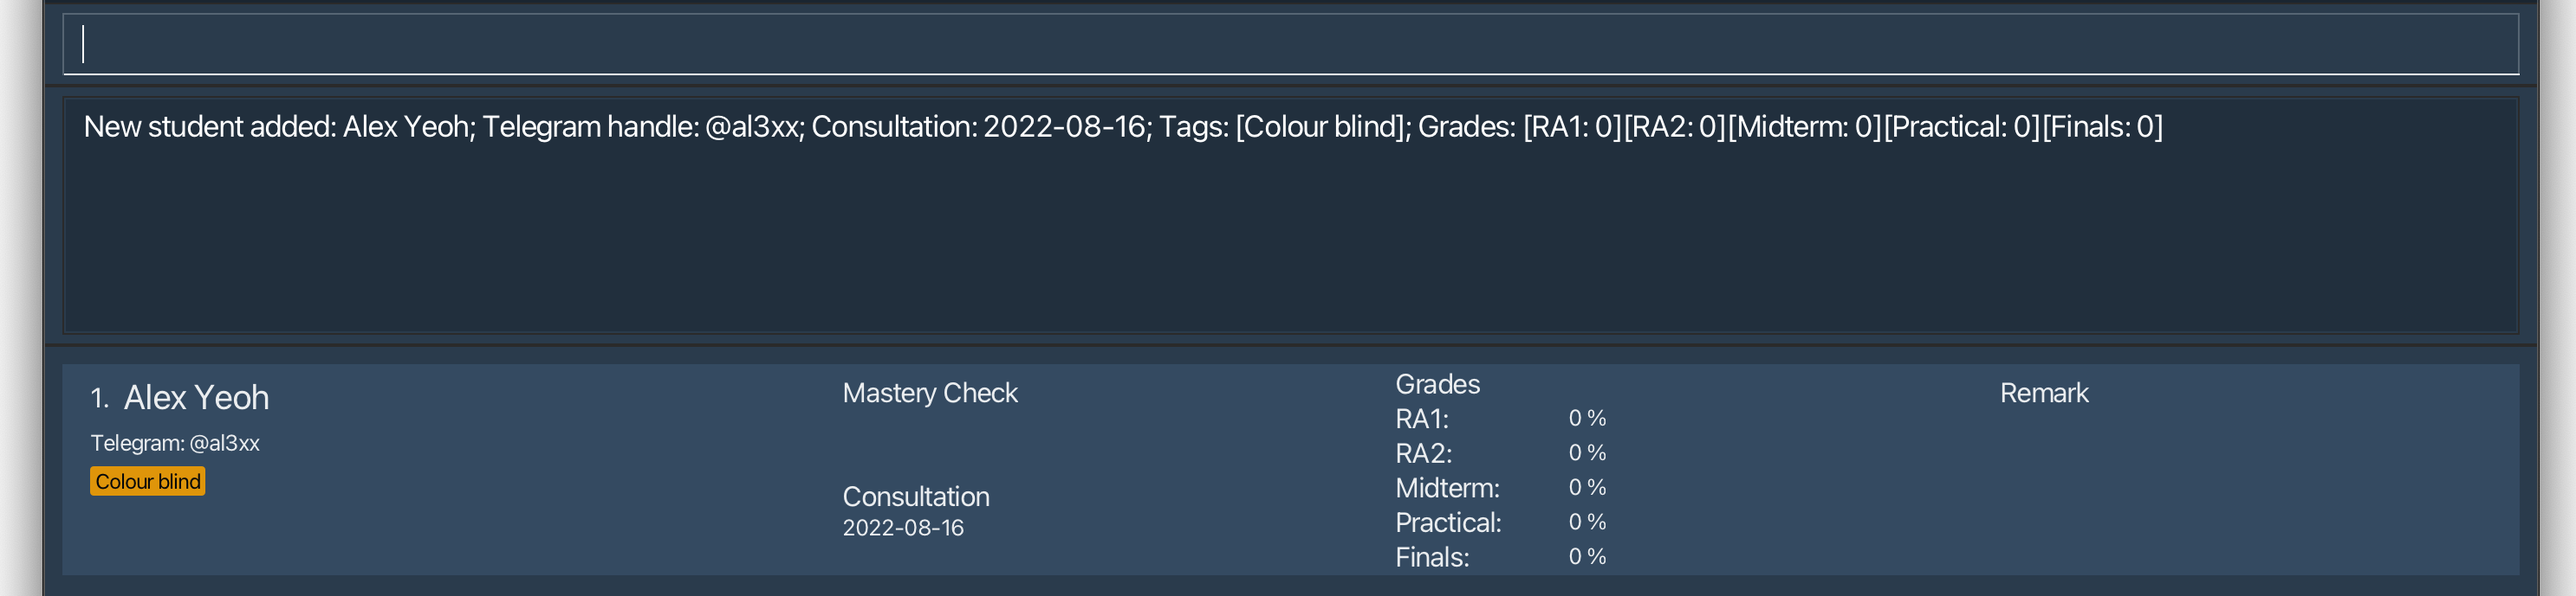
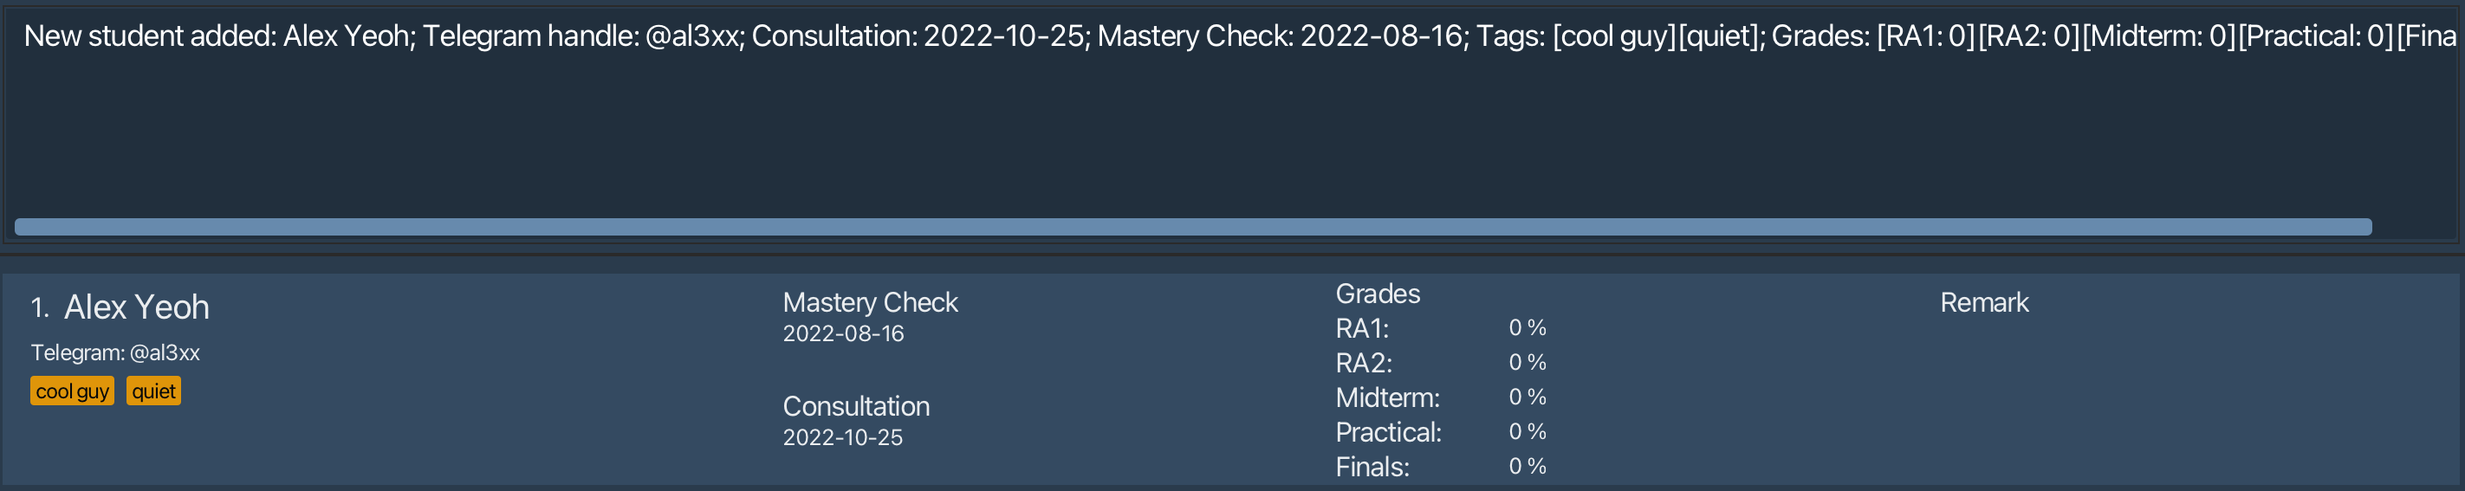
Improve code quality and update User Guide
Refactor Address Book to Friday

Add test cases for TelegramHandle, MasteryCheck and Consultation

Improve error messages for add and sort commands

Remove undo/redo feature from Developer Guide

diff --git a/src/main/java/friday/logic/parser/SortCommandParser.java b/src/main/java/friday/logic/parser/SortCommandParser.java
@@ -37,10 +37,12 @@ public class SortCommandParser implements Parser<SortCommand> {
                 ArgumentTokenizer.tokenize(args, PREFIX_NAME, PREFIX_TELEGRAMHANDLE, PREFIX_CONSULTATION,
                         PREFIX_MASTERYCHECK, PREFIX_RA1, PREFIX_RA2, PREFIX_MIDTERM, PREFIX_PRACTICAL, PREFIX_FINALS);
 
+        // no valid tokens in the command
         if (argMultimap.size() < 1) {
             throw new ParseException(String.format(MESSAGE_INVALID_COMMAND_FORMAT, SortCommand.MESSAGE_USAGE));
         }
 
+        // too many tokens
         if (argMultimap.size() > 1) {
             throw new ParseException(String.format(MESSAGE_INVALID_COMMAND_FORMAT,
                     SortCommand.MESSAGE_TOO_MANY_CRITERIA));
@@ -54,24 +56,27 @@ public class SortCommandParser implements Parser<SortCommand> {
 
         Prefix prefix = argMultimap.getFirstPrefix().orElse(null);
 
-        // Since parse asserts that there will be one valid prefix in the argMultimap, prefix object should not be null
+        // Since parse asserts that there will be one and only one valid prefix in the argMultimap, prefix object
+        // should not be null
         assert !isNull(prefix);
 
         Comparator<Student> comparator = getComparator(argMultimap, prefix);
 
+        // comparator should never be null as the valid prefix will always have a value
         assert !isNull(comparator);
 
         return new SortCommand(comparator);
     }
 
     private Comparator<Student> getComparator(ArgumentMultimap argMultimap, Prefix prefix) throws ParseException {
-        if (argMultimap.getValue(prefix).isPresent()) {
-            Order order = ParserUtil.parseOrder(argMultimap.getValue(prefix).get());
-            return (student1, student2) -> order.equals(ORDER_ASCENDING)
-                    ? compare(prefix, student1, student2)
-                    : compare(prefix, student2, student1);
+        if (argMultimap.getValue(prefix).isEmpty()) {
+            return null;
         }
-        return null;
+
+        Order order = ParserUtil.parseOrder(argMultimap.getValue(prefix).get());
+        return (student1, student2) -> order.equals(ORDER_ASCENDING)
+                ? compare(prefix, student1, student2)
+                : compare(prefix, student2, student1);
     }
 
     private int compare(Prefix prefix, Student student1, Student student2) {
@@ -101,6 +106,9 @@ public class SortCommandParser implements Parser<SortCommand> {
         } else if (prefix.equals(PREFIX_FINALS)) {
             exam = "Finals";
         }
+
+        assert !exam.equals("");
+
         return Double.compare(
                 Double.parseDouble(student1.getGradesList().getGrade(exam).getScore()),
                 Double.parseDouble(student2.getGradesList().getGrade(exam).getScore()));

diff --git a/src/main/java/friday/storage/JsonAdaptedStudent.java b/src/main/java/friday/storage/JsonAdaptedStudent.java
@@ -1,6 +1,9 @@
 package friday.storage;
 
 import static friday.model.grades.GradesList.EXAMS_COUNT;
+import static friday.model.student.Consultation.EMPTY_CONSULTATION;
+import static friday.model.student.MasteryCheck.EMPTY_MASTERYCHECK;
+import static friday.model.student.TelegramHandle.EMPTY_TELEGRAMHANDLE;
 
 import java.time.LocalDate;
 import java.util.ArrayList;
@@ -108,9 +111,10 @@ class JsonAdaptedStudent {
         if (!TelegramHandle.isValidOrEmptyJson(telegramHandle)) {
             throw new IllegalValueException(TelegramHandle.MESSAGE_CONSTRAINTS);
         }
+
         final TelegramHandle modelTelegramHandle;
-        if (telegramHandle.equals("")) {
-            modelTelegramHandle = TelegramHandle.EMPTY_TELEGRAMHANDLE;
+        if (telegramHandle.equals(EMPTY_TELEGRAMHANDLE.value)) {
+            modelTelegramHandle = EMPTY_TELEGRAMHANDLE;
         } else {
             modelTelegramHandle = new TelegramHandle(telegramHandle);
         }
@@ -122,9 +126,10 @@ class JsonAdaptedStudent {
         if (!Consultation.isValidOrEmptyJson(consultation.toString())) {
             throw new IllegalValueException(Consultation.MESSAGE_CONSTRAINTS);
         }
+
         final Consultation modelConsultation;
-        if (consultation.equals(LocalDate.of(0001, 01, 01))) {
-            modelConsultation = Consultation.EMPTY_CONSULTATION;
+        if (consultation.equals(EMPTY_CONSULTATION.getValue())) {
+            modelConsultation = EMPTY_CONSULTATION;
         } else {
             modelConsultation = new Consultation(consultation);
         }
@@ -136,9 +141,10 @@ class JsonAdaptedStudent {
         if (!MasteryCheck.isValidOrEmptyJson(masteryCheck.toString())) {
             throw new IllegalValueException(MasteryCheck.MESSAGE_CONSTRAINTS);
         }
+
         final MasteryCheck modelMasteryCheck;
-        if (masteryCheck.equals(LocalDate.of(0001, 01, 01))) {
-            modelMasteryCheck = MasteryCheck.EMPTY_MASTERYCHECK;
+        if (masteryCheck.equals(EMPTY_MASTERYCHECK.getValue())) {
+            modelMasteryCheck = EMPTY_MASTERYCHECK;
         } else {
             modelMasteryCheck = new MasteryCheck(masteryCheck, masteryCheckIsDone);
         }

diff --git a/src/test/java/friday/model/ModelManagerTest.java b/src/test/java/friday/model/ModelManagerTest.java
@@ -60,12 +60,12 @@ public class ModelManagerTest {
     }
 
     @Test
-    public void setAddressBookFilePath_nullPath_throwsNullPointerException() {
+    public void setFridayFilePath_nullPath_throwsNullPointerException() {
         assertThrows(NullPointerException.class, () -> modelManager.setFridayFilePath(null));
     }
 
     @Test
-    public void setAddressBookFilePath_validPath_setsAddressBookFilePath() {
+    public void setFridayFilePath_validPath_setsFridayFilePath() {
         Path path = Paths.get("address/book/file/path");
         modelManager.setFridayFilePath(path);
         assertEquals(path, modelManager.getFridayFilePath());
@@ -77,12 +77,12 @@ public class ModelManagerTest {
     }
 
     @Test
-    public void hasStudent_studentNotInAddressBook_returnsFalse() {
+    public void hasStudent_studentNotInFriday_returnsFalse() {
         assertFalse(modelManager.hasStudent(TypicalStudents.ALICE));
     }
 
     @Test
-    public void hasStudent_studentInAddressBook_returnsTrue() {
+    public void hasStudent_studentInFriday_returnsTrue() {
         modelManager.addStudent(TypicalStudents.ALICE);
         assertTrue(modelManager.hasStudent(TypicalStudents.ALICE));
     }
@@ -96,7 +96,7 @@ public class ModelManagerTest {
     public void equals() {
         Friday addressBook = new FridayBuilder().withStudent(TypicalStudents.ALICE)
                 .withStudent(TypicalStudents.BENSON).build();
-        Friday differentAddressBook = new Friday();
+        Friday differentFriday = new Friday();
         UserPrefs userPrefs = new UserPrefs();
 
         // same values -> returns true
@@ -114,7 +114,7 @@ public class ModelManagerTest {
         assertFalse(modelManager.equals(5));
 
         // different addressBook -> returns false
-        assertFalse(modelManager.equals(new ModelManager(differentAddressBook, userPrefs)));
+        assertFalse(modelManager.equals(new ModelManager(differentFriday, userPrefs)));
 
         // different filteredList -> returns false
         String[] keywords = TypicalStudents.ALICE.getName().fullName.split("\\s+");

diff --git a/src/main/java/friday/logic/commands/AddCommand.java b/src/main/java/friday/logic/commands/AddCommand.java
@@ -3,6 +3,7 @@ package friday.logic.commands;
 import static friday.logic.parser.CliSyntax.PREFIX_CONSULTATION;
 import static friday.logic.parser.CliSyntax.PREFIX_MASTERYCHECK;
 import static friday.logic.parser.CliSyntax.PREFIX_NAME;
+import static friday.logic.parser.CliSyntax.PREFIX_TAG;
 import static friday.logic.parser.CliSyntax.PREFIX_TELEGRAMHANDLE;
 import static java.util.Objects.requireNonNull;
 
@@ -17,21 +18,24 @@ public class AddCommand extends Command {
 
     public static final String COMMAND_WORD = "add";
 
-    public static final String MESSAGE_USAGE = COMMAND_WORD + ": Adds a student to FRIDAY. "
+    public static final String MESSAGE_USAGE = COMMAND_WORD + ": Adds a student to FRIDAY.\n"
             + "Parameters: "
             + PREFIX_NAME + "NAME "
             + "[" + PREFIX_TELEGRAMHANDLE + "TELEGRAM HANDLE] "
             + "[" + PREFIX_CONSULTATION + "CONSULTATION] "
-            + "[" + PREFIX_MASTERYCHECK + "MASTERY CHECK]...\n"
+            + "[" + PREFIX_MASTERYCHECK + "MASTERY CHECK] "
+            + "[" + PREFIX_TAG + "TAG]...\n"
             + "Example: " + COMMAND_WORD + " "
             + PREFIX_NAME + "John Doe "
             + PREFIX_TELEGRAMHANDLE + "johndoe "
             + PREFIX_CONSULTATION + "2022-09-01 "
-            + PREFIX_MASTERYCHECK + "2022-08-24 ";
+            + PREFIX_MASTERYCHECK + "2022-08-24 "
+            + PREFIX_TAG + "cool guy "
+            + PREFIX_TAG + "smart";
 
     public static final String MESSAGE_SUCCESS = "New student added: %1$s";
     public static final String MESSAGE_DUPLICATE_STUDENT = "This student's name or Telegram handle "
-            + "already exists in FRIDAY";
+            + "already exists in FRIDAY (names and Telegram handles are case insensitive)";
 
     private final Student toAdd;
 

diff --git a/src/main/java/friday/logic/commands/SortCommand.java b/src/main/java/friday/logic/commands/SortCommand.java
@@ -25,20 +25,20 @@ public class SortCommand extends Command {
 
     public static final String COMMAND_WORD = "sort";
 
-    public static final String MESSAGE_USAGE = COMMAND_WORD + ": Sorts students in FRIDAY. "
+    public static final String MESSAGE_USAGE = COMMAND_WORD + ": Sorts students in FRIDAY.\n"
             + "Parameters: CONDITION/ORDER, where CONDITION is "
-            + PREFIX_NAME.toString().replace("/", "") + ", "
-            + PREFIX_TELEGRAMHANDLE.toString().replace("/", "") + ", "
-            + PREFIX_CONSULTATION.toString().replace("/", "") + ", "
-            + PREFIX_MASTERYCHECK.toString().replace("/", "") + ", "
-            + PREFIX_RA1.toString().replace("/", "") + ", "
-            + PREFIX_RA2.toString().replace("/", "") + ", "
-            + PREFIX_MIDTERM.toString().replace("/", "") + ", "
-            + PREFIX_PRACTICAL.toString().replace("/", "") + ", or "
-            + PREFIX_FINALS.toString().replace("/", "")
-            + ", and ORDER is "
+            + PREFIX_NAME.getPrefixWithoutSlash() + ", "
+            + PREFIX_TELEGRAMHANDLE.getPrefixWithoutSlash() + ", "
+            + PREFIX_CONSULTATION.getPrefixWithoutSlash() + ", "
+            + PREFIX_MASTERYCHECK.getPrefixWithoutSlash() + ", "
+            + PREFIX_RA1.getPrefixWithoutSlash() + ", "
+            + PREFIX_RA2.getPrefixWithoutSlash() + ", "
+            + PREFIX_MIDTERM.getPrefixWithoutSlash() + ", "
+            + PREFIX_PRACTICAL.getPrefixWithoutSlash() + ", or "
+            + PREFIX_FINALS.getPrefixWithoutSlash()
+            + "; ORDER is "
             + ORDER_ASCENDING + " or "
-            + ORDER_DESCENDING + "...\n"
+            + ORDER_DESCENDING + "\n"
             + "Example: " + COMMAND_WORD + " "
             + PREFIX_NAME + ORDER_ASCENDING;
 

diff --git a/src/test/java/friday/logic/commands/CommandTestUtil.java b/src/test/java/friday/logic/commands/CommandTestUtil.java
@@ -104,21 +104,21 @@ public class CommandTestUtil {
      * Executes the given {@code command}, confirms that <br>
      * - a {@code CommandException} is thrown <br>
      * - the CommandException message matches {@code expectedMessage} <br>
-     * - the address book, filtered student list and selected student in {@code actualModel} remain unchanged
+     * - the friday, filtered student list and selected student in {@code actualModel} remain unchanged
      */
     public static void assertCommandFailure(Command command, Model actualModel, String expectedMessage) {
         // we are unable to defensively copy the model for comparison later, so we can
         // only do so by copying its components.
-        Friday expectedAddressBook = new Friday(actualModel.getFriday());
+        Friday expectedFriday = new Friday(actualModel.getFriday());
         List<Student> expectedFilteredList = new ArrayList<>(actualModel.getStudentList());
 
         assertThrows(CommandException.class, expectedMessage, () -> command.execute(actualModel));
-        assertEquals(expectedAddressBook, actualModel.getFriday());
+        assertEquals(expectedFriday, actualModel.getFriday());
         assertEquals(expectedFilteredList, actualModel.getStudentList());
     }
     /**
      * Updates {@code model}'s filtered list to show only the student at the given {@code targetIndex} in the
-     * {@code model}'s address book.
+     * {@code model}'s friday.
      */
     public static void showStudentAtIndex(Model model, Index targetIndex) {
         assertTrue(targetIndex.getZeroBased() < model.getStudentList().size());

diff --git a/src/test/java/friday/model/student/TelegramHandleTest.java b/src/test/java/friday/model/student/TelegramHandleTest.java
@@ -14,9 +14,9 @@ public class TelegramHandleTest {
     }
 
     @Test
-    public void constructor_invalidPhone_throwsIllegalArgumentException() {
-        String invalidPhone = ".";
-        assertThrows(IllegalArgumentException.class, () -> new TelegramHandle(invalidPhone));
+    public void constructor_invalidTelegramHandle_throwsIllegalArgumentException() {
+        String invalidTelegramHandle = ".";
+        assertThrows(IllegalArgumentException.class, () -> new TelegramHandle(invalidTelegramHandle));
     }
 
     @Test
@@ -26,10 +26,12 @@ public class TelegramHandleTest {
 
         // invalid Telegram handles
         assertFalse(TelegramHandle.isValidTelegramHandle("")); // empty handle is not allowed
-        assertFalse(TelegramHandle.isValidTelegramHandle("john+doe")); // symbols are not allowed
+        assertFalse(TelegramHandle.isValidTelegramHandle("john+doe")); // "+" symbols are not allowed
+        assertFalse(TelegramHandle.isValidTelegramHandle("john")); // must be 5 characters or more
 
         // valid Telegram handles
         assertTrue(TelegramHandle.isValidTelegramHandle("john123")); // letters and numbers
+        assertTrue(TelegramHandle.isValidTelegramHandle("john1")); // 5 characters length
         assertTrue(TelegramHandle.isValidTelegramHandle("john_doe")); // with an underscore
         assertTrue(TelegramHandle.isValidTelegramHandle("John_Doe")); // capital letters are allowed
     }

diff --git a/src/test/java/friday/logic/commands/EditCommandTest.java b/src/test/java/friday/logic/commands/EditCommandTest.java
@@ -109,7 +109,7 @@ public class EditCommandTest {
     public void execute_duplicateStudentFilteredList_failure() {
         showStudentAtIndex(model, INDEX_FIRST_STUDENT);
 
-        // edit student in filtered list into a duplicate in address book
+        // edit student in filtered list into a duplicate in Friday
         Student studentInList = model.getFriday().getStudentList().get(INDEX_SECOND_STUDENT.getZeroBased());
         EditCommand editCommand = new EditCommand(INDEX_FIRST_STUDENT,
                 new EditStudentDescriptorBuilder(studentInList).build());
@@ -129,13 +129,13 @@ public class EditCommandTest {
 
     /**
      * Edit filtered list where index is larger than size of filtered list,
-     * but smaller than size of address book
+     * but smaller than size of friday
      */
     @Test
     public void execute_invalidStudentIndexFilteredList_failure() {
         showStudentAtIndex(model, INDEX_FIRST_STUDENT);
         Index outOfBoundIndex = INDEX_SECOND_STUDENT;
-        // ensures that outOfBoundIndex is still in bounds of address book list
+        // ensures that outOfBoundIndex is still in bounds of friday list
         assertTrue(outOfBoundIndex.getZeroBased() < model.getFriday().getStudentList().size());
 
         EditCommand editCommand = new EditCommand(outOfBoundIndex,

diff --git a/src/main/java/friday/model/student/TelegramHandle.java b/src/main/java/friday/model/student/TelegramHandle.java
@@ -4,7 +4,7 @@ import static friday.commons.util.AppUtil.checkArgument;
 import static java.util.Objects.requireNonNull;
 
 /**
- * Represents a Student's phone number in the address book.
+ * Represents a Student's Telegram handle in Friday.
  * Guarantees: immutable; is valid as declared in {@link #isValidTelegramHandle(String)}
  */
 public class TelegramHandle implements Comparable<TelegramHandle> {
@@ -22,7 +22,7 @@ public class TelegramHandle implements Comparable<TelegramHandle> {
     /**
      * Constructs a {@code TelegramHandle}.
      *
-     * @param handle A valid phone number.
+     * @param handle A valid Telegram handle.
      */
     public TelegramHandle(String handle) {
         requireNonNull(handle);
@@ -70,7 +70,7 @@ public class TelegramHandle implements Comparable<TelegramHandle> {
     public boolean equals(Object other) {
         return other == this // short circuit if same object
                 || (other instanceof TelegramHandle // instanceof handles nulls
-                && value.equals(((TelegramHandle) other).value)); // state check
+                && value.toLowerCase().equals(((TelegramHandle) other).value.toLowerCase())); // state check
     }
 
     @Override

diff --git a/src/main/java/friday/model/student/Student.java b/src/main/java/friday/model/student/Student.java
@@ -80,6 +80,7 @@ public class Student {
      * This defines a weaker notion of equality between two students.
      */
     public boolean isSameStudent(Student otherStudent) {
+        // short circuit if same object
         if (otherStudent == this) {
             return true;
         }
@@ -88,14 +89,17 @@ public class Student {
             return false;
         }
 
+        // same name -> same student
         if (otherStudent.getName().equals(getName())) {
             return true;
         }
 
+        // do not consider them the same student just because the Telegram fields are empty
         if (otherStudent.getTelegramHandle().isEmpty() || getTelegramHandle().isEmpty()) {
             return false;
         }
 
+        // check if their Telegram handles are the same
         return otherStudent.getTelegramHandle().equals(getTelegramHandle());
     }
 

diff --git a/src/test/java/friday/model/student/MasteryCheckTest.java b/src/test/java/friday/model/student/MasteryCheckTest.java
@@ -31,10 +31,16 @@ public class MasteryCheckTest {
         assertFalse(MasteryCheck.isValidMasteryCheck("2022--09--01")); // double '-' symbol
         assertFalse(MasteryCheck.isValidMasteryCheck("2022-09-0-1")); // extra '-' symbol
 
+        assertFalse(MasteryCheck.isValidMasteryCheck("1899-12-31")); // only years 1900 - 2999 are valid
+        assertFalse(MasteryCheck.isValidMasteryCheck("3000-01-01")); // only years 1900 - 2999 are valid
+
 
         // valid dates
         assertTrue(MasteryCheck.isValidMasteryCheck("2019-06-07"));
         assertTrue(MasteryCheck.isValidMasteryCheck("2020-02-28"));
+
+        assertTrue(MasteryCheck.isValidMasteryCheck("1900-01-01")); // only years 1900 - 2999 are valid
+        assertTrue(MasteryCheck.isValidMasteryCheck("2999-12-31")); // only years 1900 - 2999 are valid
     }
 
     @Test

diff --git a/src/test/java/friday/model/student/ConsultationTest.java b/src/test/java/friday/model/student/ConsultationTest.java
@@ -31,10 +31,15 @@ public class ConsultationTest {
         assertFalse(Consultation.isValidConsultation("2022--09--01")); // double '-' symbol
         assertFalse(Consultation.isValidConsultation("2022-09-0-1")); // extra '-' symbol
 
+        assertFalse(Consultation.isValidConsultation("1899-12-31")); // only years 1900 - 2999 are valid
+        assertFalse(Consultation.isValidConsultation("3000-01-01")); // only years 1900 - 2999 are valid
 
         // valid dates
         assertTrue(Consultation.isValidConsultation("2022-09-01"));
         assertTrue(Consultation.isValidConsultation("2020-02-28"));
+
+        assertTrue(Consultation.isValidConsultation("1900-01-01")); // only years 1900 - 2999 are valid
+        assertTrue(Consultation.isValidConsultation("2999-12-31")); // only years 1900 - 2999 are valid
     }
 
     @Test
